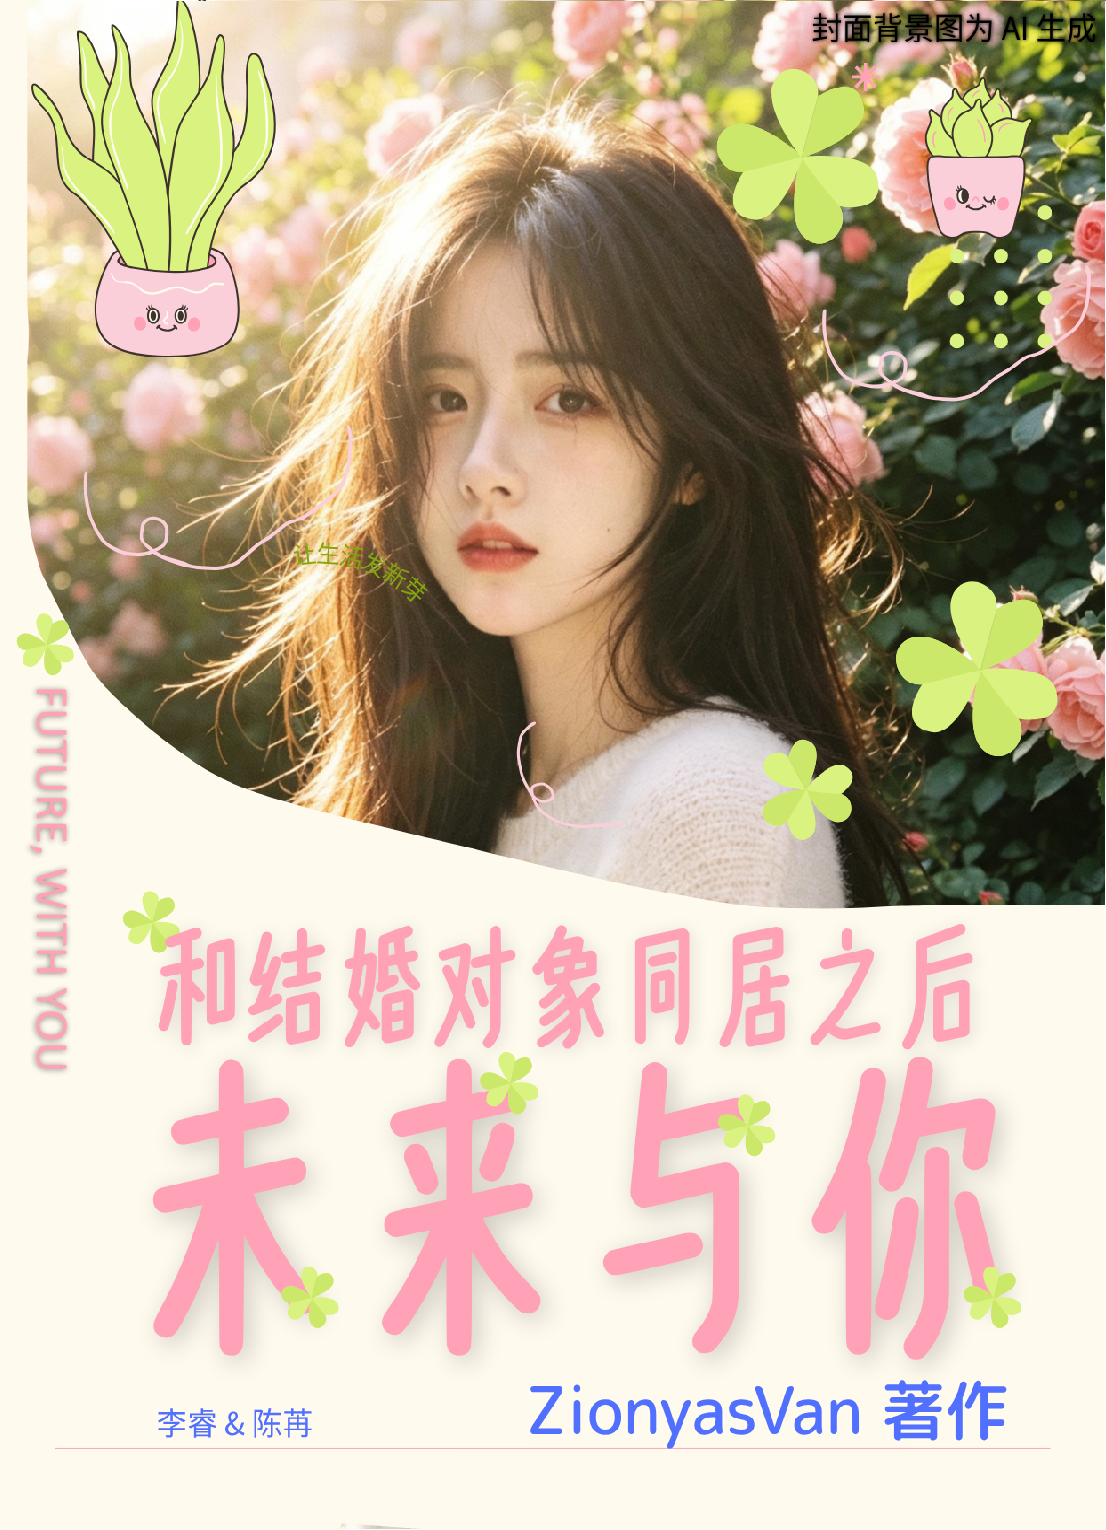
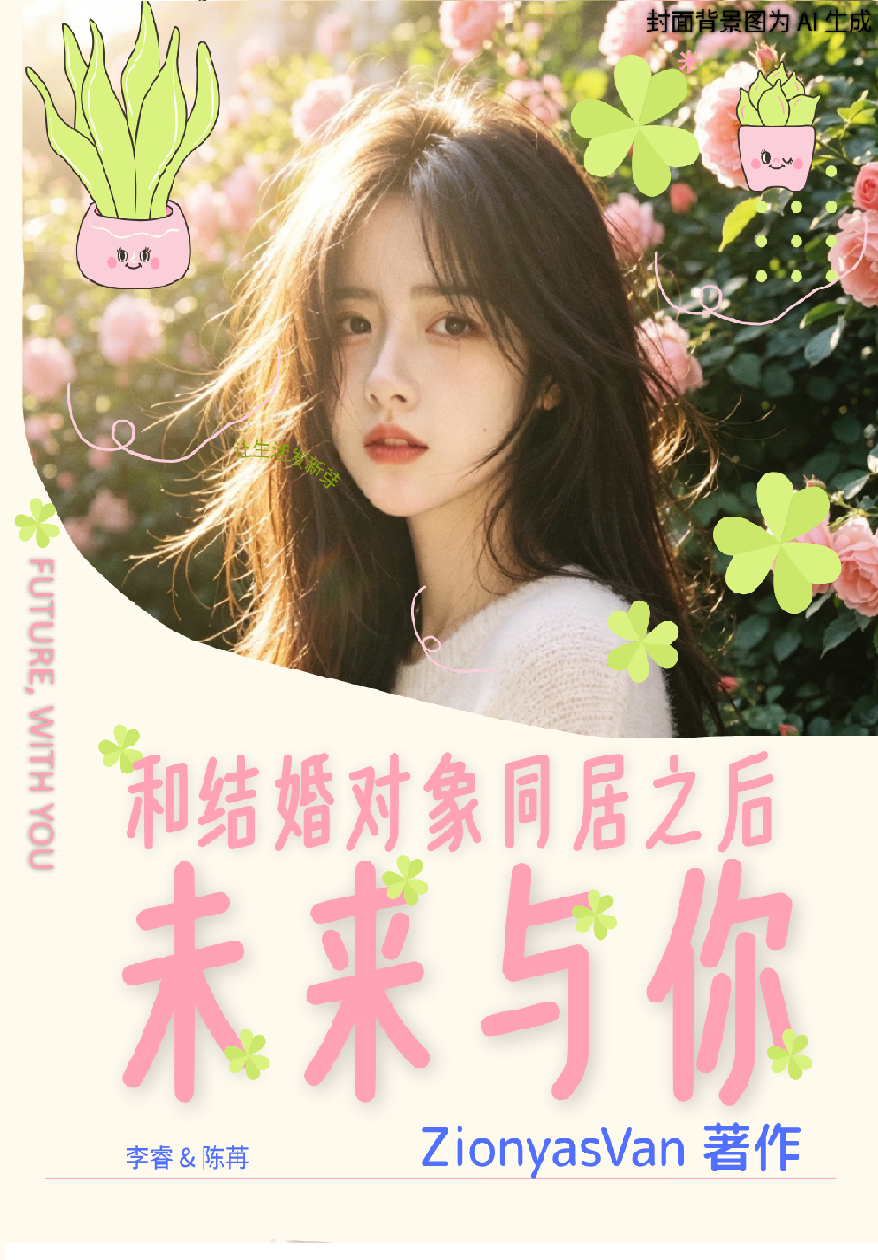
通过管理工具更新内容

diff --git a/src/content/posts/daily says/novelchange-15463.md b/src/content/posts/daily says/novelchange-15463.md
@@ -1,0 +1,12 @@
+---
+title: "给我的个人网站新增了小说分区"
+published: 2026-07-29 10:06:22
+description: "终于有地方收藏我的小说了。"
+image: "/covers/novelchange-15463.png"
+tags: ["日志"]
+category: "日常"
+draft: false
+lang: 'zh_CN'
+---
+
+花了两天时间给我的个人网站新增了小说分区，还专门加急写了一篇小说上来，这下有地方放我的小说了。
